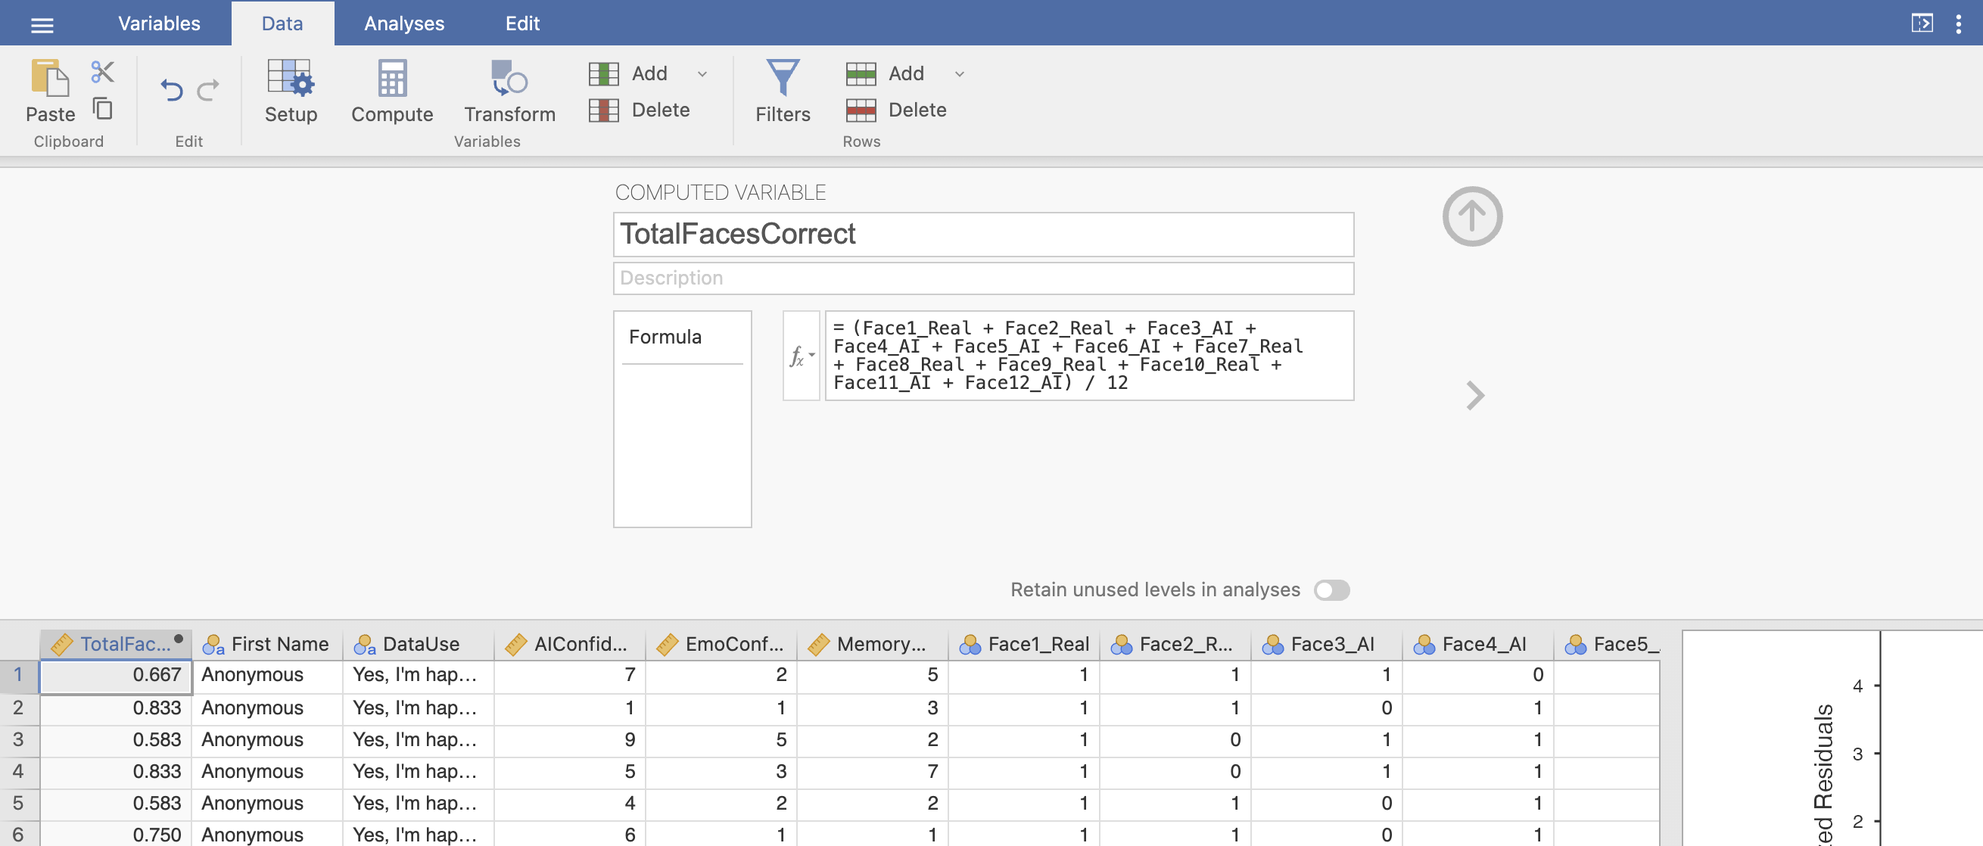
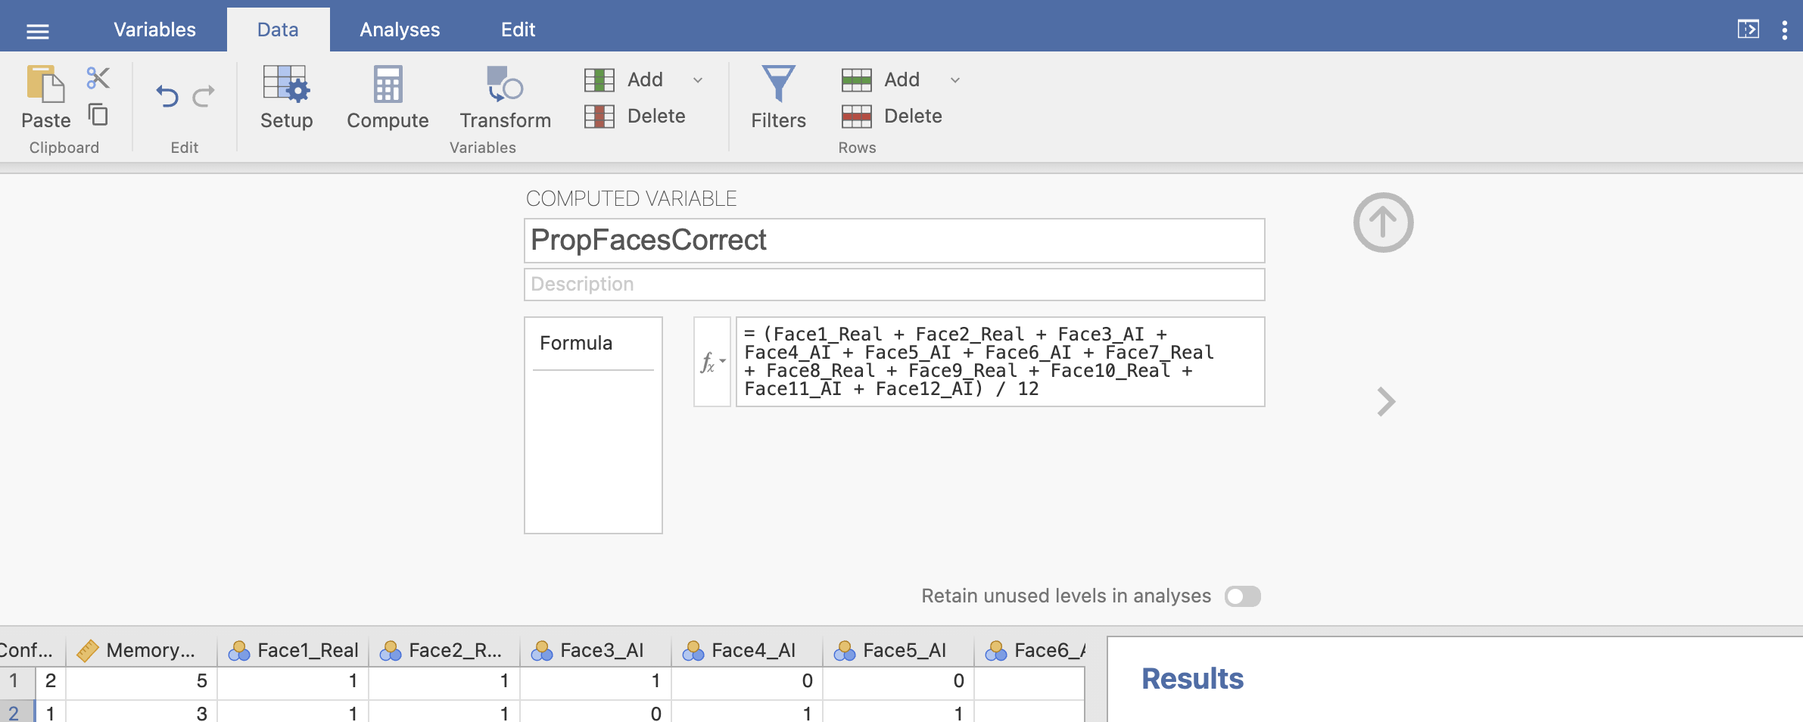
Built site for gh-pages

diff --git a/tutorials/rmb_week-4_two-sample-t-tests.html b/tutorials/rmb_week-4_two-sample-t-tests.html
@@ -221,7 +221,7 @@ div.csl-indent {
   <li><a href="#hypothesis-1---people-are-able-to-distinguish-ai-generated-faces-from-real-photos-of-humans" id="toc-hypothesis-1---people-are-able-to-distinguish-ai-generated-faces-from-real-photos-of-humans" class="nav-link" data-scroll-target="#hypothesis-1---people-are-able-to-distinguish-ai-generated-faces-from-real-photos-of-humans">4. Hypothesis 1 - People are able to distinguish AI generated faces from real photos of humans</a></li>
   <li><a href="#hypothesis-2---confident-people-are-better-at-distinguishing-ai-faces-from-real-faces." id="toc-hypothesis-2---confident-people-are-better-at-distinguishing-ai-faces-from-real-faces." class="nav-link" data-scroll-target="#hypothesis-2---confident-people-are-better-at-distinguishing-ai-faces-from-real-faces.">5. Hypothesis 2 - Confident people are better at distinguishing AI faces from real faces.</a></li>
   <li><a href="#hypothesis-3---peoples-confidence-in-their-ability-to-distinguish-ai-generated-faces-will-reduce-after-performing-the-task" id="toc-hypothesis-3---peoples-confidence-in-their-ability-to-distinguish-ai-generated-faces-will-reduce-after-performing-the-task" class="nav-link" data-scroll-target="#hypothesis-3---peoples-confidence-in-their-ability-to-distinguish-ai-generated-faces-will-reduce-after-performing-the-task">6. Hypothesis 3 - People’s confidence in their ability to distinguish AI generated faces will reduce after performing the task</a></li>
-  <li><a href="#bonus-hypothesis-people-are-more-accurate-at-identifying-photos-of-real-people-compared-to-ai-generated-photos." id="toc-bonus-hypothesis-people-are-more-accurate-at-identifying-photos-of-real-people-compared-to-ai-generated-photos." class="nav-link" data-scroll-target="#bonus-hypothesis-people-are-more-accurate-at-identifying-photos-of-real-people-compared-to-ai-generated-photos.">8. Bonus Hypothesis! People are more accurate at identifying photos of real people compared to AI generated photos.</a></li>
+  <li><a href="#bonus-hypothesis-people-are-more-accurate-at-identifying-photos-of-real-people-compared-to-ai-generated-photos." id="toc-bonus-hypothesis-people-are-more-accurate-at-identifying-photos-of-real-people-compared-to-ai-generated-photos." class="nav-link" data-scroll-target="#bonus-hypothesis-people-are-more-accurate-at-identifying-photos-of-real-people-compared-to-ai-generated-photos.">7. Bonus Hypothesis! People are more accurate at identifying photos of real people compared to AI generated photos.</a></li>
   <li><a href="#summary" id="toc-summary" class="nav-link" data-scroll-target="#summary">8. Summary</a></li>
   <li><a href="#references" id="toc-references" class="nav-link" data-scroll-target="#references">References</a></li>
   </ul></li>
@@ -618,7 +618,7 @@ Data Skills - computing a variable from other columns
 </div>
 </div>
 <div class="callout-body-container callout-body">
-<p>We can define our own variables in Jamovi using the ‘Transform’ function in the ‘Variables’ or the ‘Data’ tabs. Open a new Transformed variable.</p>
+<p>We can define our own variables in Jamovi using the ‘Compute’ function in the ‘Variables’ or the ‘Data’ tabs. Open a new Transformed variable.</p>
 <p>This will open a menu with an option to give the new variable an name and description. Name the variable ‘PropFacesCorrect’ to indicate that it contatins the proportion of faces that the participant responded correctly on. You can add a description if you like though this is optional.</p>
 <p>The variable is defined within the formula box below the name definitions. We want to compute the average accuracy across all 12 faces so we can add the formula to compute that into the box.</p>
 <p><img src="../images/rmb-week-4_computer-practical/rmb-week-4_computer-practical_img3.png" class="img-fluid" width="600"></p>
@@ -716,14 +716,28 @@ Check Your Understanding
 <blockquote class="blockquote">
 <p>A one sample t-test comparing the group average proportion of correctly identified faces (M = 0.634, SD=0.164) to chance level (proportion correct = 0.5) showed a significant effect, t(85) = 7.52, p&lt;0.001. Participants were on average more accurate than chance at distinguishing AI generated face from photos of real faces.</p>
 </blockquote>
-<p>The statistical test allows us to reject the null hypothesis that participant performance was no different to chance level on this task.</p>
 <p><img src="../images/rmb-week-4_computer-practical/rmb-week-4_computer-practical_img5.png" class="img-fluid" width="400"></p>
 </div>
 </div>
 </div>
 </div>
 </div>
-<p>Does the conclusion match your expectations?</p>
+<div class="callout callout-style-default callout-caution no-icon callout-titled">
+<div class="callout-header d-flex align-content-center" data-bs-toggle="collapse" data-bs-target=".callout-16-contents" aria-controls="callout-16" aria-expanded="false" aria-label="Toggle callout">
+<div class="callout-icon-container">
+<i class="callout-icon no-icon"></i>
+</div>
+<div class="callout-title-container flex-fill">
+<i class="bi bi-question-lg"></i> Data Skills - do the results support hypothesis 1?
+</div>
+<div class="callout-btn-toggle d-inline-block border-0 py-1 ps-1 pe-0 float-end"><i class="callout-toggle"></i></div>
+</div>
+<div id="callout-16" class="callout-16-contents callout-collapse collapse">
+<div class="callout-body-container callout-body">
+<p>Yes, the statistical test allows us to reject the null hypothesis that participant performance was no different to chance level on this task and accept the experimental hypothesis that participants are able to distinguish AI generated faces from real photos of humans.</p>
+</div>
+</div>
+</div>
 </section>
 <section id="hypothesis-2---confident-people-are-better-at-distinguishing-ai-faces-from-real-faces." class="level2 unnumbered">
 <h2 class="unnumbered anchored" data-anchor-id="hypothesis-2---confident-people-are-better-at-distinguishing-ai-faces-from-real-faces.">5. Hypothesis 2 - Confident people are better at distinguishing AI faces from real faces.</h2>
@@ -759,7 +773,7 @@ Check Your Understanding
 </div>
 </div>
 <p>With our new variable, we have what we need to run an independent samples t-test. This is very straightforward following the analyses we’ve run previously in the module.</p>
-<p>Open the ‘Independent Sample t-test’ menu under ‘t-tests’. To run the analysis, drag <code>AIConfidenceBefore</code> across as our dependent variable and our new <code>ConfidentBefore</code> variable as the grouping variable. The results should appear on the right automatically.</p>
+<p>Open the ‘Independent Sample t-test’ menu under ‘t-tests’. To run the analysis, drag <code>PropFacesCorrect</code> across as our dependent variable and our new <code>ConfidentBefore</code> variable as the grouping variable. The results should appear on the right automatically.</p>
 <p>Once you have computed the core test - add the following options:</p>
 <ul>
 <li>Descriptives</li>
@@ -769,7 +783,7 @@ Check Your Understanding
 <p><img src="../images/rmb-week-4_computer-practical/rmb-week-4_computer-practical_img7.png" class="img-fluid"></p>
 <p>Let’s think through the results</p>
 <div class="callout callout-style-default callout-caution no-icon callout-titled">
-<div class="callout-header d-flex align-content-center" data-bs-toggle="collapse" data-bs-target=".callout-17-contents" aria-controls="callout-17" aria-expanded="false" aria-label="Toggle callout">
+<div class="callout-header d-flex align-content-center" data-bs-toggle="collapse" data-bs-target=".callout-18-contents" aria-controls="callout-18" aria-expanded="false" aria-label="Toggle callout">
 <div class="callout-icon-container">
 <i class="callout-icon no-icon"></i>
 </div>
@@ -778,25 +792,9 @@ Check Your Understanding
 </div>
 <div class="callout-btn-toggle d-inline-block border-0 py-1 ps-1 pe-0 float-end"><i class="callout-toggle"></i></div>
 </div>
-<div id="callout-17" class="callout-17-contents callout-collapse collapse">
-<div class="callout-body-container callout-body">
-<p>The Shairo-Wilk statistic is not significant, indicating that the data are likely to be normally distributed</p>
-</div>
-</div>
-</div>
-<div class="callout callout-style-default callout-caution no-icon callout-titled">
-<div class="callout-header d-flex align-content-center" data-bs-toggle="collapse" data-bs-target=".callout-18-contents" aria-controls="callout-18" aria-expanded="false" aria-label="Toggle callout">
-<div class="callout-icon-container">
-<i class="callout-icon no-icon"></i>
-</div>
-<div class="callout-title-container flex-fill">
-<i class="bi bi-question-lg"></i> Data Skills - do we have homogeneity of variance?
-</div>
-<div class="callout-btn-toggle d-inline-block border-0 py-1 ps-1 pe-0 float-end"><i class="callout-toggle"></i></div>
-</div>
 <div id="callout-18" class="callout-18-contents callout-collapse collapse">
 <div class="callout-body-container callout-body">
-<p>Levene’s statistic is not significant, indicating that the variance of the two groups is comparable. We can confirm this by looking at the standard deviations in the descriptives table. 0.171 and 0.158 are fairly similar so the test report makes intuitive sense.</p>
+<p>The Shairo-Wilk statistic is not significant, indicating that the data are likely to be normally distributed</p>
 </div>
 </div>
 </div>
@@ -806,13 +804,13 @@ Check Your Understanding
 <i class="callout-icon no-icon"></i>
 </div>
 <div class="callout-title-container flex-fill">
-<i class="bi bi-question-lg"></i> Data Skills - which test should we report? Student’s, Welch’s or Mann-Whitney U?
+<i class="bi bi-question-lg"></i> Data Skills - do we have homogeneity of variance?
 </div>
 <div class="callout-btn-toggle d-inline-block border-0 py-1 ps-1 pe-0 float-end"><i class="callout-toggle"></i></div>
 </div>
 <div id="callout-19" class="callout-19-contents callout-collapse collapse">
 <div class="callout-body-container callout-body">
-<p>Both assumptions of the standard Student’s t-test we looked at above are met by the data - we can proceed with Student’s test.</p>
+<p>Levene’s statistic is not significant, indicating that the variance of the two groups is comparable. We can confirm this by looking at the standard deviations in the descriptives table. 0.171 and 0.158 are fairly similar so the test report makes intuitive sense.</p>
 </div>
 </div>
 </div>
@@ -822,45 +820,30 @@ Check Your Understanding
 <i class="callout-icon no-icon"></i>
 </div>
 <div class="callout-title-container flex-fill">
-<i class="bi bi-question-lg"></i> Data Skills - were confident partiticpants or unconfident participants more accurate?
+<i class="bi bi-question-lg"></i> Data Skills - which test should we report? Student’s, Welch’s or Mann-Whitney U?
 </div>
 <div class="callout-btn-toggle d-inline-block border-0 py-1 ps-1 pe-0 float-end"><i class="callout-toggle"></i></div>
 </div>
 <div id="callout-20" class="callout-20-contents callout-collapse collapse">
 <div class="callout-body-container callout-body">
-<p>Confident participants were more accurate! participants in this study are good at judging their ability.</p>
-<p>We can see this by looking at the means in the descriptive statistics and the descriptives plot if you run this.</p>
+<p>Both assumptions of the standard Student’s t-test we looked at above are met by the data - we can proceed with Student’s test.</p>
 </div>
 </div>
 </div>
-</section>
-<section id="hypothesis-3---peoples-confidence-in-their-ability-to-distinguish-ai-generated-faces-will-reduce-after-performing-the-task" class="level2 unnumbered">
-<h2 class="unnumbered anchored" data-anchor-id="hypothesis-3---peoples-confidence-in-their-ability-to-distinguish-ai-generated-faces-will-reduce-after-performing-the-task">6. Hypothesis 3 - People’s confidence in their ability to distinguish AI generated faces will reduce after performing the task</h2>
-<p>Open the ‘Independent Sample t-test’ menu under ‘t-tests’. To run the analysis, drag <code>AIConfidenceBefore</code> across as our dependent variable and our new <code>ConfidentBefore</code> variable as the grouping variable. The results should appear on the right automatically.</p>
-<p>Once you have computed the core test - add the following options:</p>
-<ul>
-<li>Descriptives</li>
-<li>Homogeneity Test</li>
-<li>Normality Test</li>
-</ul>
-<p><img src="../images/rmb-week-4_computer-practical/rmb-week-4_computer-practical_img8.png" class="img-fluid"></p>
-<p>Let’s think through the results…</p>
 <div class="callout callout-style-default callout-caution no-icon callout-titled">
 <div class="callout-header d-flex align-content-center" data-bs-toggle="collapse" data-bs-target=".callout-21-contents" aria-controls="callout-21" aria-expanded="false" aria-label="Toggle callout">
 <div class="callout-icon-container">
 <i class="callout-icon no-icon"></i>
 </div>
 <div class="callout-title-container flex-fill">
-<i class="bi bi-question-lg"></i> Data Skills - does confidence in distinguishing AI faces from real faces change after completing the face task?
+<i class="bi bi-question-lg"></i> Data Skills - were confident partiticpants or unconfident participants more accurate?
 </div>
 <div class="callout-btn-toggle d-inline-block border-0 py-1 ps-1 pe-0 float-end"><i class="callout-toggle"></i></div>
 </div>
 <div id="callout-21" class="callout-21-contents callout-collapse collapse">
 <div class="callout-body-container callout-body">
-<p>Yes, the results indicate that there is a significant difference. We could report the results like this:</p>
-<blockquote class="blockquote">
-<p>A paired samples t-test showed a significant difference in participants confidence in their ability to distinguish AI faces from real faces before (M=4.48, SD=2.20) and after (M=5.66, SD=2.57) the face perception task. t(76) = -3.769, p&lt;0.001. Confidence was significantly reduced after completing the task.</p>
-</blockquote>
+<p>Confident participants were more accurate! participants in this study are good at judging their ability.</p>
+<p>We can see this by looking at the means in the descriptive statistics and the descriptives plot if you have run it.</p>
 </div>
 </div>
 </div>
@@ -870,34 +853,45 @@ Check Your Understanding
 <i class="callout-icon no-icon"></i>
 </div>
 <div class="callout-title-container flex-fill">
-<i class="bi bi-question-lg"></i> Data Skills - does confidence in distinguishing sad faces from happy faces change after completing the face task?
+<i class="bi bi-question-lg"></i> Data Skills - do the results support hypothesis 2?
 </div>
 <div class="callout-btn-toggle d-inline-block border-0 py-1 ps-1 pe-0 float-end"><i class="callout-toggle"></i></div>
 </div>
 <div id="callout-22" class="callout-22-contents callout-collapse collapse">
 <div class="callout-body-container callout-body">
-<p>No, the results indicate that there is not a significant difference. We could report the results like this:</p>
-<blockquote class="blockquote">
-<p>A paired samples t-test showed a significant difference in participants confidence in their ability to distinguish sad faces from happy faces before (M=2.57, SD=1.49) and after (M=2.74, SD=1.37) the face perception task. t(64) = -1.1017, p=0.313. Confidence was unchanged before and after the task.</p>
-</blockquote>
+<p>Yes, overall it seems like we can reject the null for hypothesis 2 and accept the experimental hypothesis that more confident participants are better at distinguishing AI faces from real human faces.</p>
 </div>
 </div>
 </div>
+</section>
+<section id="hypothesis-3---peoples-confidence-in-their-ability-to-distinguish-ai-generated-faces-will-reduce-after-performing-the-task" class="level2 unnumbered">
+<h2 class="unnumbered anchored" data-anchor-id="hypothesis-3---peoples-confidence-in-their-ability-to-distinguish-ai-generated-faces-will-reduce-after-performing-the-task">6. Hypothesis 3 - People’s confidence in their ability to distinguish AI generated faces will reduce after performing the task</h2>
+<p>Next we want to explore whether performing the face decision task changes peoples confidences in their abililty to detect AI generated faces. Remember that all participants categorised 12 faces with immediate correct/incorrect feedback and made confidence ratings at the start and end of the task.</p>
+<p>Open the ‘Paired Sample t-test’ menu under ‘t-tests’. To run the analysis, drag <code>AIConfidenceBefore</code> and <code>AIConfidenceAfter</code> across as our pair of dependent variables. This is the format for running paired samples t-tests, the rest of the options should be familiar from our previous analyses.</p>
+<p>Once you have computed the core test, do the same for the <code>EmoConfidence</code> and <code>MemoryConfidence</code>, and add the following options:</p>
+<ul>
+<li>Descriptives</li>
+<li>Homogeneity Test</li>
+<li>Normality Test</li>
+</ul>
+<p>The results should appear on the right automatically.</p>
+<p><img src="../images/rmb-week-4_computer-practical/rmb-week-4_computer-practical_img8.png" class="img-fluid"></p>
+<p>Let’s think through the results…</p>
 <div class="callout callout-style-default callout-caution no-icon callout-titled">
 <div class="callout-header d-flex align-content-center" data-bs-toggle="collapse" data-bs-target=".callout-23-contents" aria-controls="callout-23" aria-expanded="false" aria-label="Toggle callout">
 <div class="callout-icon-container">
 <i class="callout-icon no-icon"></i>
 </div>
 <div class="callout-title-container flex-fill">
-<i class="bi bi-question-lg"></i> Data Skills - does confidence in recognising a face you haven’t seen for a long time change after completing the face task?
+<i class="bi bi-question-lg"></i> Data Skills - does confidence in distinguishing AI faces from real faces change after completing the face task?
 </div>
 <div class="callout-btn-toggle d-inline-block border-0 py-1 ps-1 pe-0 float-end"><i class="callout-toggle"></i></div>
 </div>
 <div id="callout-23" class="callout-23-contents callout-collapse collapse">
 <div class="callout-body-container callout-body">
-<p>No, the results indicate that there is not a significant difference. We could report the results like this:</p>
+<p>Yes, the results indicate that there is a significant difference. We could report the results like this:</p>
 <blockquote class="blockquote">
-<p>A paired samples t-test showed a significant difference in participants confidence in their ability to recognise faces of people they haven’t seen for a long time before (M=3.67, SD=1.89) and after (M=3.70, SD=1.86) the face perception task. t(66) = -0.234, p=0.816. Confidence was unchanged before and after the task.</p>
+<p>A paired samples t-test showed a significant difference in participants confidence in their ability to distinguish AI faces from real faces before (M=4.48, SD=2.20) and after (M=5.66, SD=2.57) the face perception task. t(76) = -3.769, p&lt;0.001. Confidence was significantly reduced after completing the task.</p>
 </blockquote>
 </div>
 </div>
@@ -908,11 +902,49 @@ Check Your Understanding
 <i class="callout-icon no-icon"></i>
 </div>
 <div class="callout-title-container flex-fill">
-<i class="bi bi-question-lg"></i> Data Skills - What test should we report for these comparisons? Are the parametric assumptions met?
+<i class="bi bi-question-lg"></i> Data Skills - does confidence in distinguishing sad faces from happy faces change after completing the face task?
 </div>
 <div class="callout-btn-toggle d-inline-block border-0 py-1 ps-1 pe-0 float-end"><i class="callout-toggle"></i></div>
 </div>
 <div id="callout-24" class="callout-24-contents callout-collapse collapse">
+<div class="callout-body-container callout-body">
+<p>No, the results indicate that there is not a significant difference. We could report the results like this:</p>
+<blockquote class="blockquote">
+<p>A paired samples t-test showed a significant difference in participants confidence in their ability to distinguish sad faces from happy faces before (M=2.57, SD=1.49) and after (M=2.74, SD=1.37) the face perception task. t(64) = -1.1017, p=0.313. Confidence was unchanged before and after the task.</p>
+</blockquote>
+</div>
+</div>
+</div>
+<div class="callout callout-style-default callout-caution no-icon callout-titled">
+<div class="callout-header d-flex align-content-center" data-bs-toggle="collapse" data-bs-target=".callout-25-contents" aria-controls="callout-25" aria-expanded="false" aria-label="Toggle callout">
+<div class="callout-icon-container">
+<i class="callout-icon no-icon"></i>
+</div>
+<div class="callout-title-container flex-fill">
+<i class="bi bi-question-lg"></i> Data Skills - does confidence in recognising a face you haven’t seen for a long time change after completing the face task?
+</div>
+<div class="callout-btn-toggle d-inline-block border-0 py-1 ps-1 pe-0 float-end"><i class="callout-toggle"></i></div>
+</div>
+<div id="callout-25" class="callout-25-contents callout-collapse collapse">
+<div class="callout-body-container callout-body">
+<p>No, the results indicate that there is not a significant difference. We could report the results like this:</p>
+<blockquote class="blockquote">
+<p>A paired samples t-test showed a significant difference in participants confidence in their ability to recognise faces of people they haven’t seen for a long time before (M=3.67, SD=1.89) and after (M=3.70, SD=1.86) the face perception task. t(66) = -0.234, p=0.816. Confidence was unchanged before and after the task.</p>
+</blockquote>
+</div>
+</div>
+</div>
+<div class="callout callout-style-default callout-caution no-icon callout-titled">
+<div class="callout-header d-flex align-content-center" data-bs-toggle="collapse" data-bs-target=".callout-26-contents" aria-controls="callout-26" aria-expanded="false" aria-label="Toggle callout">
+<div class="callout-icon-container">
+<i class="callout-icon no-icon"></i>
+</div>
+<div class="callout-title-container flex-fill">
+<i class="bi bi-question-lg"></i> Data Skills - What test should we report for these comparisons? Are the parametric assumptions met?
+</div>
+<div class="callout-btn-toggle d-inline-block border-0 py-1 ps-1 pe-0 float-end"><i class="callout-toggle"></i></div>
+</div>
+<div id="callout-26" class="callout-26-contents callout-collapse collapse">
 <div class="callout-body-container callout-body">
 <p>Check the results of hte normality tests. The Shapiro-Wilk statistic is significant for all three tests! We should consider the non-parametric alternative test - add the ‘Wilcoxon Rank’ test to your analysis.</p>
 <p>We should report the Wilcoxon Rank test along with the medians for non-parametric data. For example:</p>
@@ -922,9 +954,25 @@ Check Your Understanding
 </div>
 </div>
 </div>
+<div class="callout callout-style-default callout-caution no-icon callout-titled">
+<div class="callout-header d-flex align-content-center" data-bs-toggle="collapse" data-bs-target=".callout-27-contents" aria-controls="callout-27" aria-expanded="false" aria-label="Toggle callout">
+<div class="callout-icon-container">
+<i class="callout-icon no-icon"></i>
+</div>
+<div class="callout-title-container flex-fill">
+<i class="bi bi-question-lg"></i> Data Skills - do the results support hypothesis 3?
+</div>
+<div class="callout-btn-toggle d-inline-block border-0 py-1 ps-1 pe-0 float-end"><i class="callout-toggle"></i></div>
+</div>
+<div id="callout-27" class="callout-27-contents callout-collapse collapse">
+<div class="callout-body-container callout-body">
+<p>Yes, overall it seems like we can reject the null for hypothesis 3 and accept the experimental hypothesis. Participants were less confident in their ability to detect AI generated faces after completing the task but their confidence in detecting emotions and remembering faces from a long time ago remains unchanged.</p>
+</div>
+</div>
+</div>
 </section>
 <section id="bonus-hypothesis-people-are-more-accurate-at-identifying-photos-of-real-people-compared-to-ai-generated-photos." class="level2">
-<h2 class="anchored" data-anchor-id="bonus-hypothesis-people-are-more-accurate-at-identifying-photos-of-real-people-compared-to-ai-generated-photos.">8. Bonus Hypothesis! People are more accurate at identifying photos of real people compared to AI generated photos.</h2>
+<h2 class="anchored" data-anchor-id="bonus-hypothesis-people-are-more-accurate-at-identifying-photos-of-real-people-compared-to-ai-generated-photos.">7. Bonus Hypothesis! People are more accurate at identifying photos of real people compared to AI generated photos.</h2>
 <p>Let’s use our new skills from this practical to answer one last question.</p>
 <!--# #############################################  -->
 <div class="callout callout-style-default callout-tip callout-titled">
